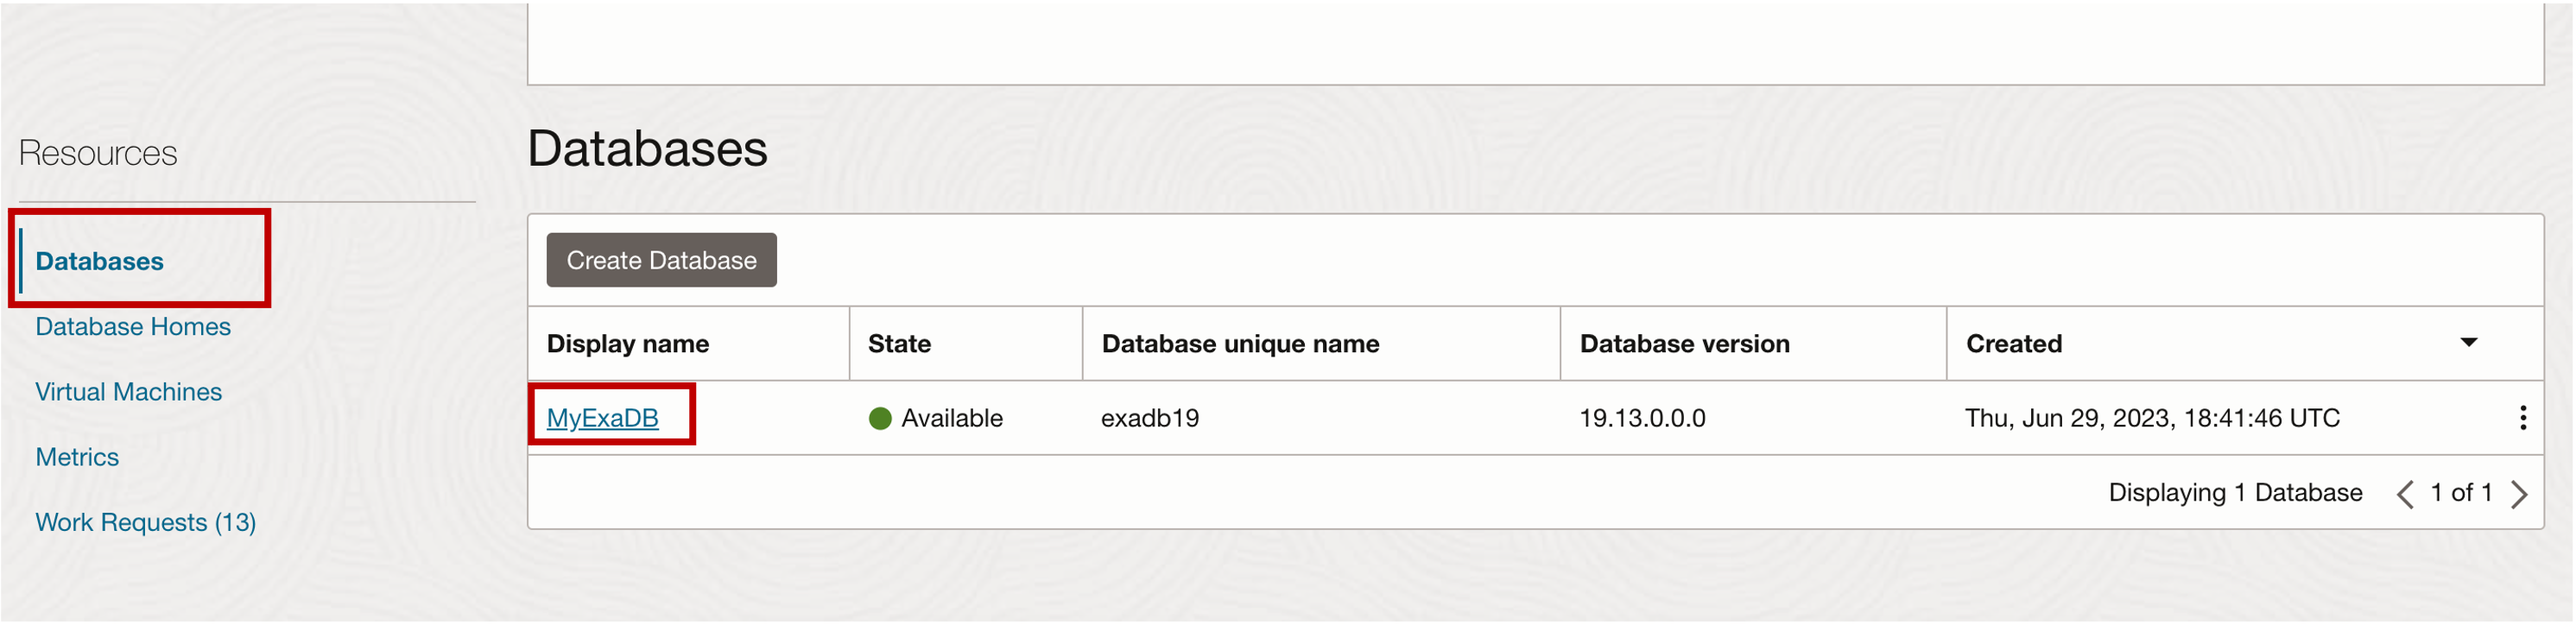
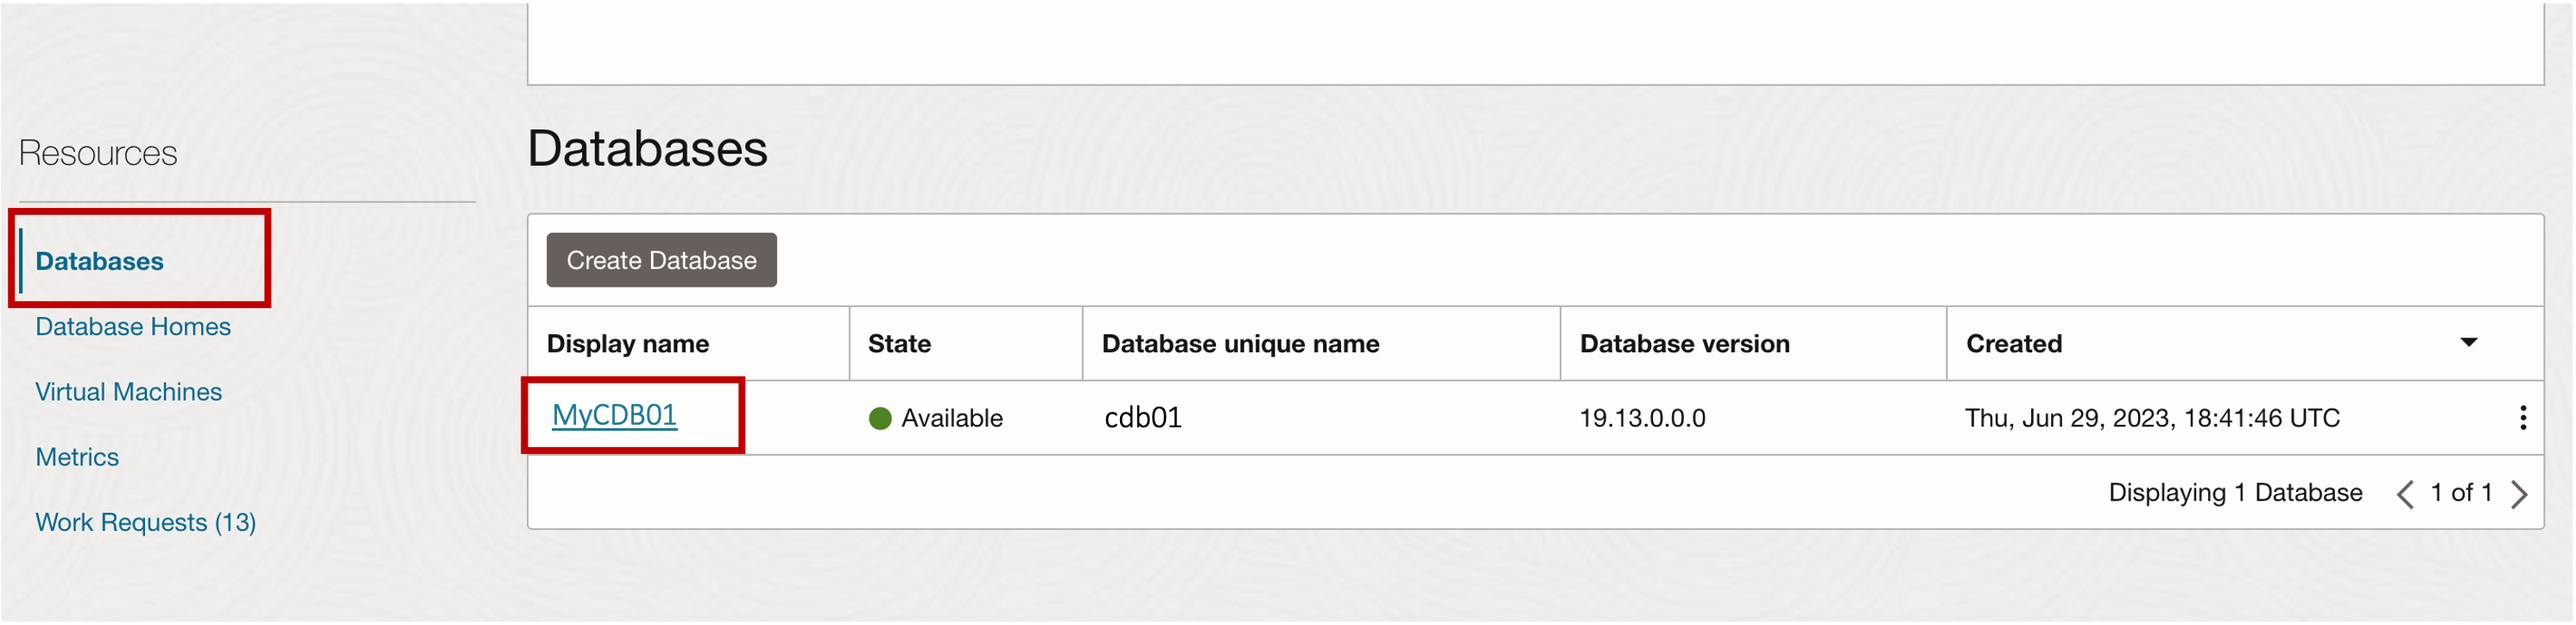
WMS ID - 11391 - OCW HOL 2326 (#40)
* added workshops folder

* added all  OCW HOL

* updated compartment

* Update discover-env-details-api.md

* Update discover-env-details-api.md

* added updates for the HOL

* added updates for the OCW HOL

* added changes for PR

* added changes

* added changes after lint check

* added changes

* added changes for OCW

* added final changes

* added the changes to just make "Estimated Time" for labs 1-5

* added date change and updates for Estimated Time

* added changes for Lab 5

* added changes to last updated date

* updated last updated date for lab 3

* added changes for lab1 task 4

* added changes to lab5 task 1

* added changes

* added changes for Lab 5

* added changes for get started

* added changes

* added updates to change ocw23 folder to ocw23-tenancy

* added changes to introduction

* added changes for lab1

Changed region(s): [[0.1871, 0.5773, 0.3118, 0.7293], [0.4053, 0.6381, 0.4677, 0.6989]]

diff --git a/database-cloud-services-automate-stack-deployments/review-ocw-env/review-ocw-env.md b/database-cloud-services-automate-stack-deployments/review-ocw-env/review-ocw-env.md
@@ -27,11 +27,7 @@ This lab requires completion of the following:
 
 
 
-## Task 1: Review creating an Exadata Database Service on Cloud@Customer Resource Model
-
-  *(For this lab, The Exadata Database Service on Cloud@Customer Resource Model is pre-provisioned - Informational Instructions for navigating the Exadata Database Service on Cloud@Customer environment will be presented by the speakers)*
-
-## Task 2: Discover and Connect to the Application Server (Oracle Cloud Developer Image)
+## Task 1: Discover and Connect to the Application Server (Oracle Cloud Developer Image)
 
 1. Open the navigation menu. Under **Compute**, click **Instances**.
    
@@ -41,7 +37,7 @@ This lab requires completion of the following:
    
 3. Select your assigned **Compartment**.
    
-   The list of Instances displays. The **name**, **state**, and **IP address** are displayed for each compute host.
+   From the list of Instances displays. Find the Compute named **MyAppServer**, and document the **Private IP address** for later use.
 
    ![discover compute networking details](./images/discover-app-server.png " ")
    
@@ -49,62 +45,61 @@ This lab requires completion of the following:
    
    ![SGD login](./images/sgd-login.png " ")
    
-   Enter your assigned Secured Global Desktop **username** and **Password** for your login.
+   Enter your assigned Secured Global Desktop **Username** and **Password** for your login.
 
 5. Launch the SGD Linux Desktop
    
    ![SGD linux Desktop](./images/sgd-linux-desktop.png " ")
 
-6. Open the terminal and type the following command. 
+6. Open the terminal and connect to the local OSC bastion server with the following command. 
    
-   ![ssh to database client](./images/ssh-app-tool.png " ")
-    
       ```
         <copy>
 
-        ssh ocw23bastion.us.osc.oracle.com 
+        ssh ocw23oscbastion.us.osc.oracle.com 
 
         </copy>
-      ```     
+      ```
+   
+   ![ssh to osc bastion server](./images/ssh-oscbastion.png " ")
+
+   ![login to osc bastion server](./images/ssh-oscbastion-login.png " ")
+     
 
 7. Use the assigned SSH Key to connect to the application server instance
    
       ```
         <copy>
 
-        ssh -i ~/sshkey_student_xx.key -l opc (Use the IP address of the application server discovered in Step 2)
+        ssh -i ~/sshkey_student_xx.key -l opc (Use the IP address of the application server discovered in Step 3)
 
         </copy>
         ```
-## Task 3: Discover and Connect to an Exadata Database Service Virtual Machine with SSH 
+## Task 2: Discover and Connect to an Exadata Database Service Virtual Machine with SSH 
 
 1. Open the navigation menu. Under **Oracle Database**, click **Exadata Database Service on Cloud@Customer**.
    
    ![navigage oci console](./images/navigateocimenu.png " ")
 
-2. Select the assigned **Compartment**, then Navigate to the **VM Cluster Details** page of the VM Cluster that contains the virtual machine you are interested in.
+2. Select your assigned **Compartment**, then Navigate to the **VM Cluster Details** page of your assigned VM Cluster named **MyVMClusterXX**.
+   
+   ![navigate to exadata vmcluster](./images/navigate-vmcluster.png " ")
 
     The VM Cluster Details page displays information about the selected VM cluster.
 
-3. In the **Resources** list, click **Virtual Machines**.
+   ![exadata vmcluster details page](./images/vmcluster-details-page.png " ")
+
+
+
+3. Under the **Resources** section on the left banner, click on **Virtual Machines**.
 
     The list of virtual machines displays. The **name**, **state**, and **client IP address** are displayed for each virtual machine in the VM cluster.
 
-4. Find the virtual machine you want in the Virtual Machines list and check its state.
-
-    The color of the icon and the associated text indicate its status.
-
-      * **Available**: Green icon. The node is operational.
-      * **Starting**: Yellow icon. The node is starting because of a start or reboot action in the Console or API.
-      * **Stopping**: Yellow icon. The node is stopping because of a stop or reboot action in the Console or API.
-      * **Stopped**: Yellow icon. The node is stopped.
-      * **Failed**: Red icon. An error condition prevents the continued operation of the virtual machine.
-
-    Take note of the client IP address of the virtual machine.
+4. Find and document the **Client IP Address** of the first virtual machine for later use.
 
     ![VM Client IP](./images/vm-client-ip.png" ")
 
-5. From your Bastion host *(In Task 2 Step 5)*, Run the command to connect to the Exadata Database Service Virtual Machine with SSH.
+5. From the App Server, Run the command to connect to the Exadata Database Service Virtual Machine with SSH.
 
       ```
               <copy>
@@ -115,13 +110,13 @@ This lab requires completion of the following:
       ```
        
 
-## Task 4: Discover and Connect to the Oracle Database on Exadata Database Service
+## Task 3: Discover and Connect to the Oracle Database on Exadata Database Service
 
-1. From the Virtual Machines list page, On the left rail, Under **Resources**, Click on **Databases**, then Click on the **Name of your Container Database**. 
+1. From the Virtual Machines list page, Under the **Resources** section on the left banner, Click on **Databases**, then Click on the **Container Database** named **MyCDB01**. 
 
   ![Navigate CDB](./images/navigate-cdb.png" ")
 
-2. On the left rail, under **Resources**, Click on **Pluggable Databases**. Then Click on the **Name of your Pluggable Database**.
+2. Under the **Resources** section on the left banner, Click on **Pluggable Databases**. Then Click on the **Pluggable Database** named **MyPDB**.
 
   ![PDB list menu](./images/mypdb-list.png" ")
 

diff --git a/database-cloud-services-automate-stack-deployments/get-started/get-started.md b/database-cloud-services-automate-stack-deployments/get-started/get-started.md
@@ -31,7 +31,12 @@ Types of Cloud Accounts that can be used for this workshop:
 
 * **Password** - Your assigned password for this workshop
 
-## Task 1: Log in to Oracle Cloud
+
+## Task 1: Review Exadata Database Service, Exadata Resource Model, and OCI Resource Manager
+
+  *(For this lab, The Exadata Database Service on Cloud@Customer Resource Model is pre-provisioned - Informational Instructions for navigating the Exadata Database Service on Cloud@Customer environment will be presented by the speakers)*
+
+## Task 2: Log in to Oracle Cloud
 
 1. Go to [cloud.oracle.com](https://cloud.oracle.com), enter your **Cloud Account Name** *(**assigned tenancy**)*,  and click **Next**. 
    
@@ -46,7 +51,6 @@ Types of Cloud Accounts that can be used for this workshop:
 3. You are now signed in to Oracle Cloud! 
    
    ![oci login](./images/oci-login-page.png " ")
-
 
 You may now **proceed to the next lab**.
 
